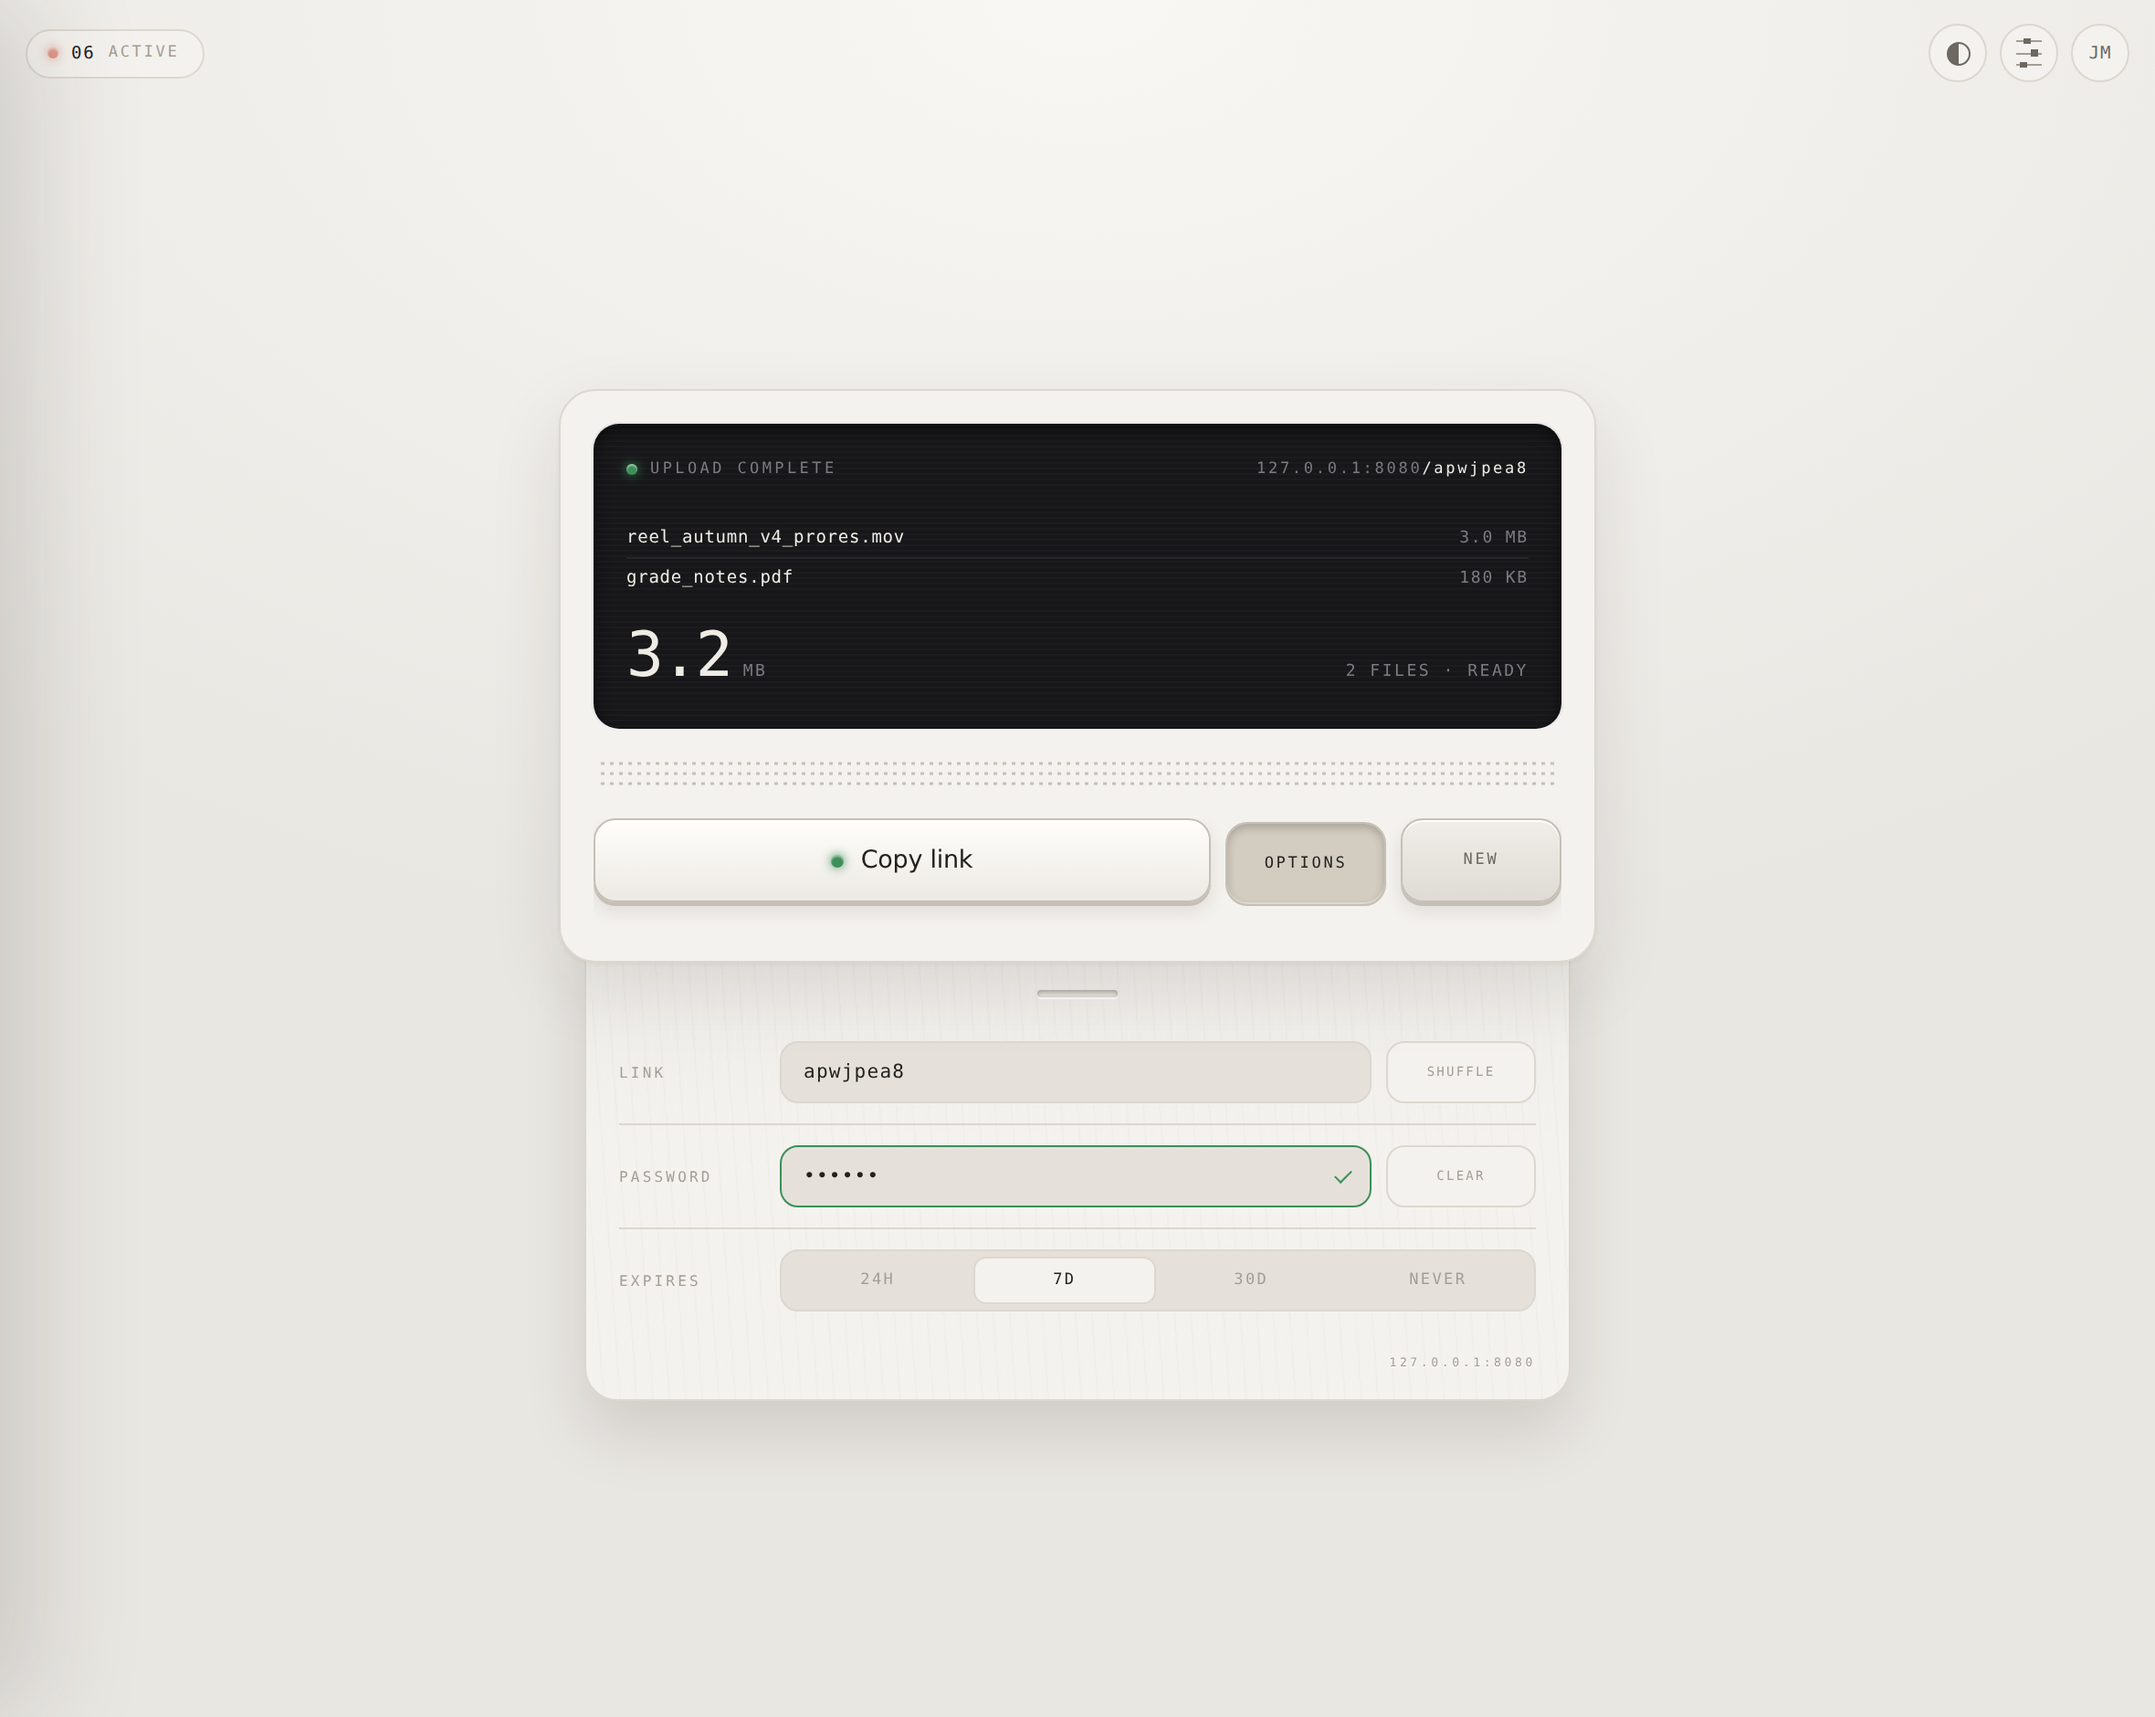
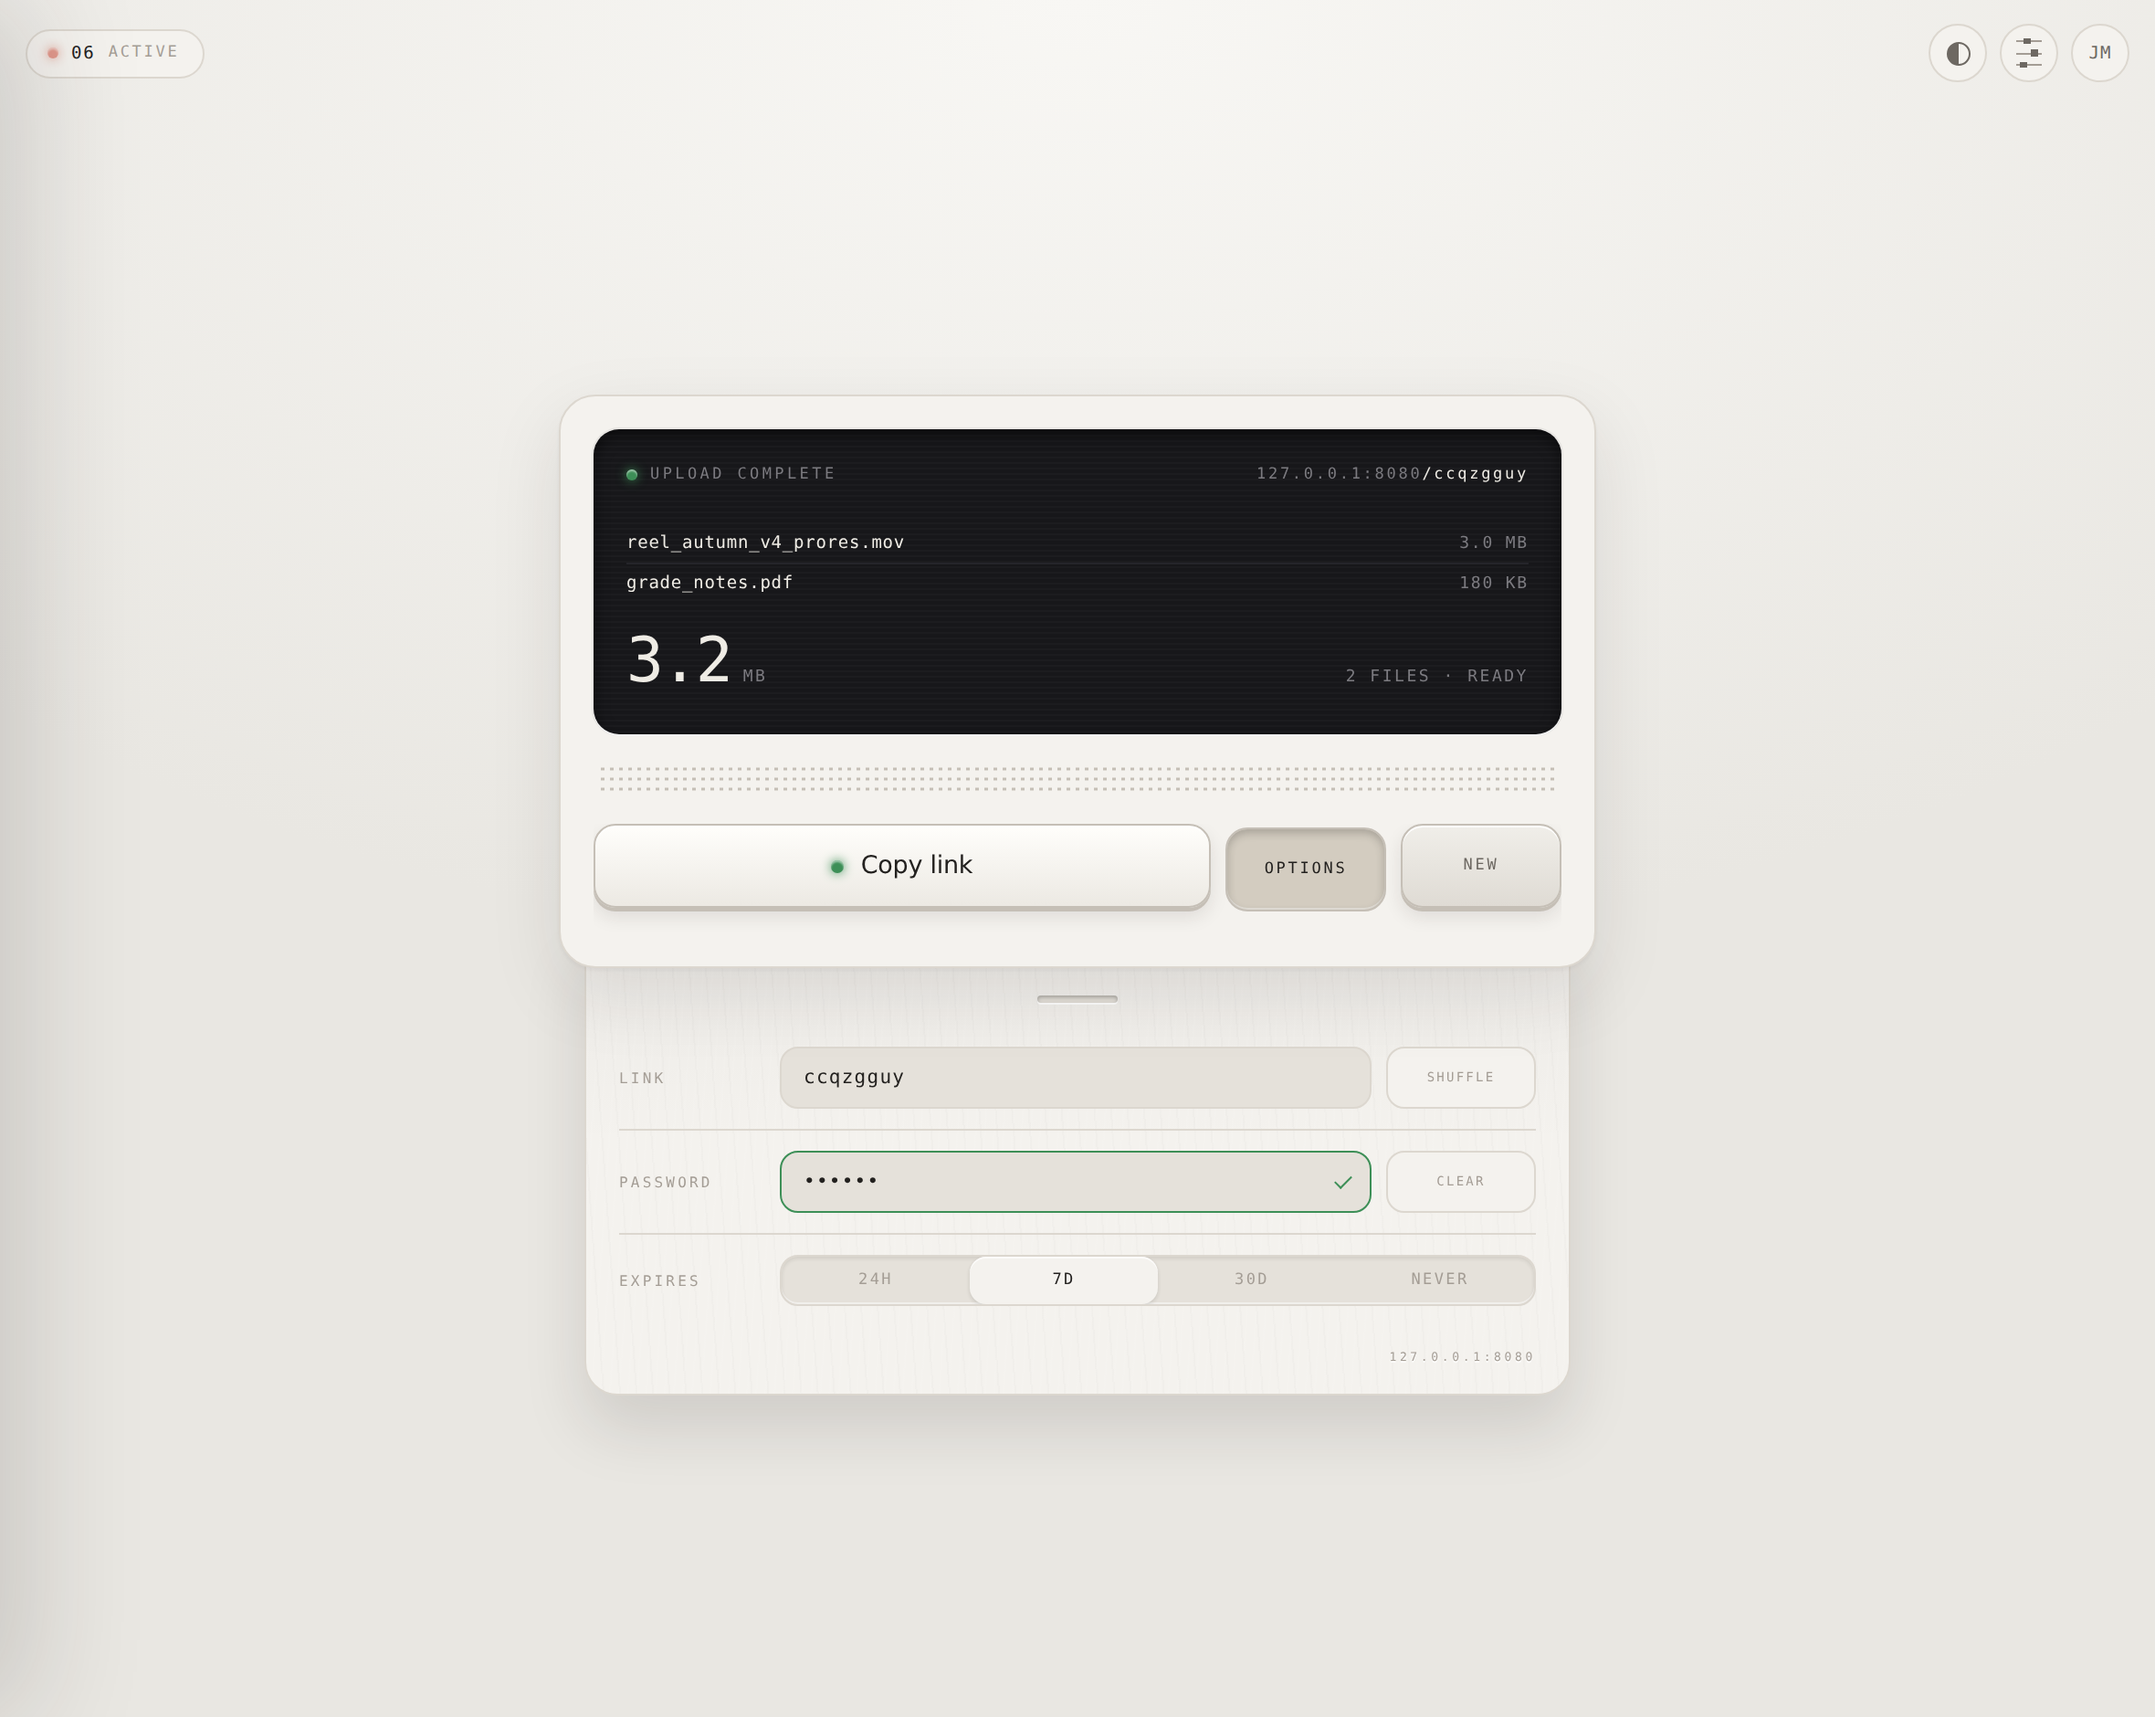
Make the expiry control a channel with a handle in it
The selection is one element that travels now, not a background handed
from one cell to the next. That is the whole difference between a set of
buttons where one is lit and a thing sliding in a groove. Its width is a
fraction of the track and its travel a multiple of its own width, both
exact rather than measured: every segment is flex:1 from a zero basis,
so they are equal whatever their labels say.

The track lost its inner padding so the handle runs the full height of
it, and clips its overflow so a handle at either end nests into the
track's corner instead of overhanging it. The inner radius is the outer
radius less the border, which is what makes that nest exact.

Depth is rationed in this interface, and this spends a little of it. The
drawer's finger slot set the precedent and the reason is the same: a
handle that slides needs somewhere to slide, and a groove drawn without
any depth is a rectangle. One soft inset pass and a hairline of light
along the lower lip, well under the screen and the keys.

Claude-Session: https://claude.ai/code/session_01LryLGAjAdFVuFEJgP2dnQj

diff --git a/web/src/styles/controls.css b/web/src/styles/controls.css
@@ -276,14 +276,59 @@
 
 /* ---------- segmented control ---------- */
 
+/*
+ * A channel with a handle in it.
+ *
+ * The track is the one flat control allowed a little depth, for the same
+ * reason the drawer's finger slot is: a handle that slides needs somewhere to
+ * slide, and a groove drawn without any is just a rectangle. It is kept well
+ * under the screen and the keys — one soft inset pass and a hairline of light
+ * along the bottom lip, no more.
+ */
 .fret-segmented {
+  position: relative;
   display: flex;
-  gap: 3px;
   background: var(--sunk);
   border: 1px solid var(--edge);
   border-radius: 10px;
-  padding: 3px;
+  /* No padding: the handle runs the full height of the channel, so the track
+     has no inner margin for it to float in. */
+  padding: 0;
+  box-shadow: inset 0 1px 2px rgba(35, 33, 31, 0.11),
+    inset 0 -1px 0 rgba(255, 255, 255, 0.55);
   transition: border-color var(--durBase) ease;
+  /* The handle's corners are cut by the track's own, so a handle at either
+     end nests into the corner instead of overhanging it. */
+  overflow: hidden;
+}
+
+:root[data-theme='dark'] .fret-segmented {
+  box-shadow: inset 0 1px 2px rgba(0, 0, 0, 0.45),
+    inset 0 -1px 0 rgba(255, 255, 255, 0.04);
+}
+
+/*
+ * The handle. One element that travels, rather than a background handed from
+ * one cell to the next — the difference is the whole reason this reads as a
+ * thing inside a groove. Its width is a fraction of the track and its travel
+ * a multiple of its own width, both exact because the segments are equal.
+ *
+ * --easeSnap, because this is a small control answering a press.
+ */
+.fret-segmented__knob {
+  position: absolute;
+  top: 0;
+  bottom: 0;
+  left: 0;
+  background: var(--body);
+  border-radius: 9px;
+  box-shadow: 0 1px 2px rgba(35, 33, 31, 0.14), inset 0 1px 0 rgba(255, 255, 255, 0.7);
+  transition: transform var(--durBase) var(--easeSnap), width var(--durBase) var(--easeSnap);
+  pointer-events: none;
+}
+
+:root[data-theme='dark'] .fret-segmented__knob {
+  box-shadow: 0 1px 2px rgba(0, 0, 0, 0.5), inset 0 1px 0 rgba(255, 255, 255, 0.06);
 }
 
 /*
@@ -292,8 +337,10 @@
  * moves, which makes the transition jump.
  */
 .fret-segmented__item {
+  position: relative;
+  z-index: 1;
   flex: 1;
-  border-radius: 7px;
+  border-radius: 9px;
   border-width: 1px;
   border-style: solid;
   border-color: transparent;
@@ -306,7 +353,7 @@
   padding: 7px 4px;
   cursor: pointer;
   outline: none;
-  transition: background 0.16s ease, color 0.16s ease, border-color 0.16s ease;
+  transition: color var(--durFast) ease;
   min-width: 0;
 }
 
@@ -320,14 +367,14 @@
 }
 
 .fret-segmented__item--on {
-  background: var(--body);
-  border-color: var(--edge);
   color: var(--fg);
 }
 
 .fret-segmented__item:focus-visible {
   outline: 2px solid var(--fg2);
-  outline-offset: 1px;
+  /* Inside the track: the outline would otherwise be clipped by the overflow
+     that keeps the handle in its channel. */
+  outline-offset: -3px;
 }
 
 /* ---------- popover ---------- */

diff --git a/web/src/components/Controls.tsx b/web/src/components/Controls.tsx
@@ -45,6 +45,14 @@ export interface Segment<T extends string> {
   label: string
 }
 
+/**
+ * A recessed track with one handle in it.
+ *
+ * The selection is a single element that travels, not a background that
+ * cross-fades from one cell to the next. Every segment is flex:1 from a zero
+ * basis, so they are exactly equal in width whatever their labels say — which
+ * is what lets the handle be positioned arithmetically rather than measured.
+ */
 export function Segmented<T extends string>({
   segments,
   value,
@@ -63,12 +71,26 @@ export function Segmented<T extends string>({
    */
   committed?: boolean
 }) {
+  const index = segments.findIndex((segment) => segment.value === value)
+
   return (
     <div
       className={`fret-segmented${committed ? ' fret-segmented--committed' : ''}`}
       role="radiogroup"
       aria-label={label}
     >
+      {/* No handle at all for a value that is not one of the segments, rather
+          than one parked off the end of the track. */}
+      {index >= 0 && (
+        <span
+          className="fret-segmented__knob"
+          aria-hidden="true"
+          style={{
+            width: `${100 / segments.length}%`,
+            transform: `translateX(${index * 100}%)`,
+          }}
+        />
+      )}
       {segments.map((segment) => (
         <button
           key={segment.value}

diff --git a/CLAUDE.md b/CLAUDE.md
@@ -92,6 +92,12 @@ The original handoff described a physical device: warm off-white body, black
 inset readout screen, perforated vent, a few raised keys. Depth is rationed to
 the screen, the vent and primary keys — everything else is flat.
 
+The two exceptions earned it by being places something moves: the drawer's
+finger slot, and the expiry track. A pull that is not recessed is not a pull,
+and a handle that slides needs a groove to slide in — a channel drawn without
+any depth is just a rectangle. Both are kept well under the screen and the
+keys: one soft inset pass and a hairline of light along the lower lip.
+
 - **Type rule.** Machine-generated or countable → Martian Mono, small and
   tracked out. Human-written → Schibsted Grotesk. `lib/format.ts` produces
   every mono value.
